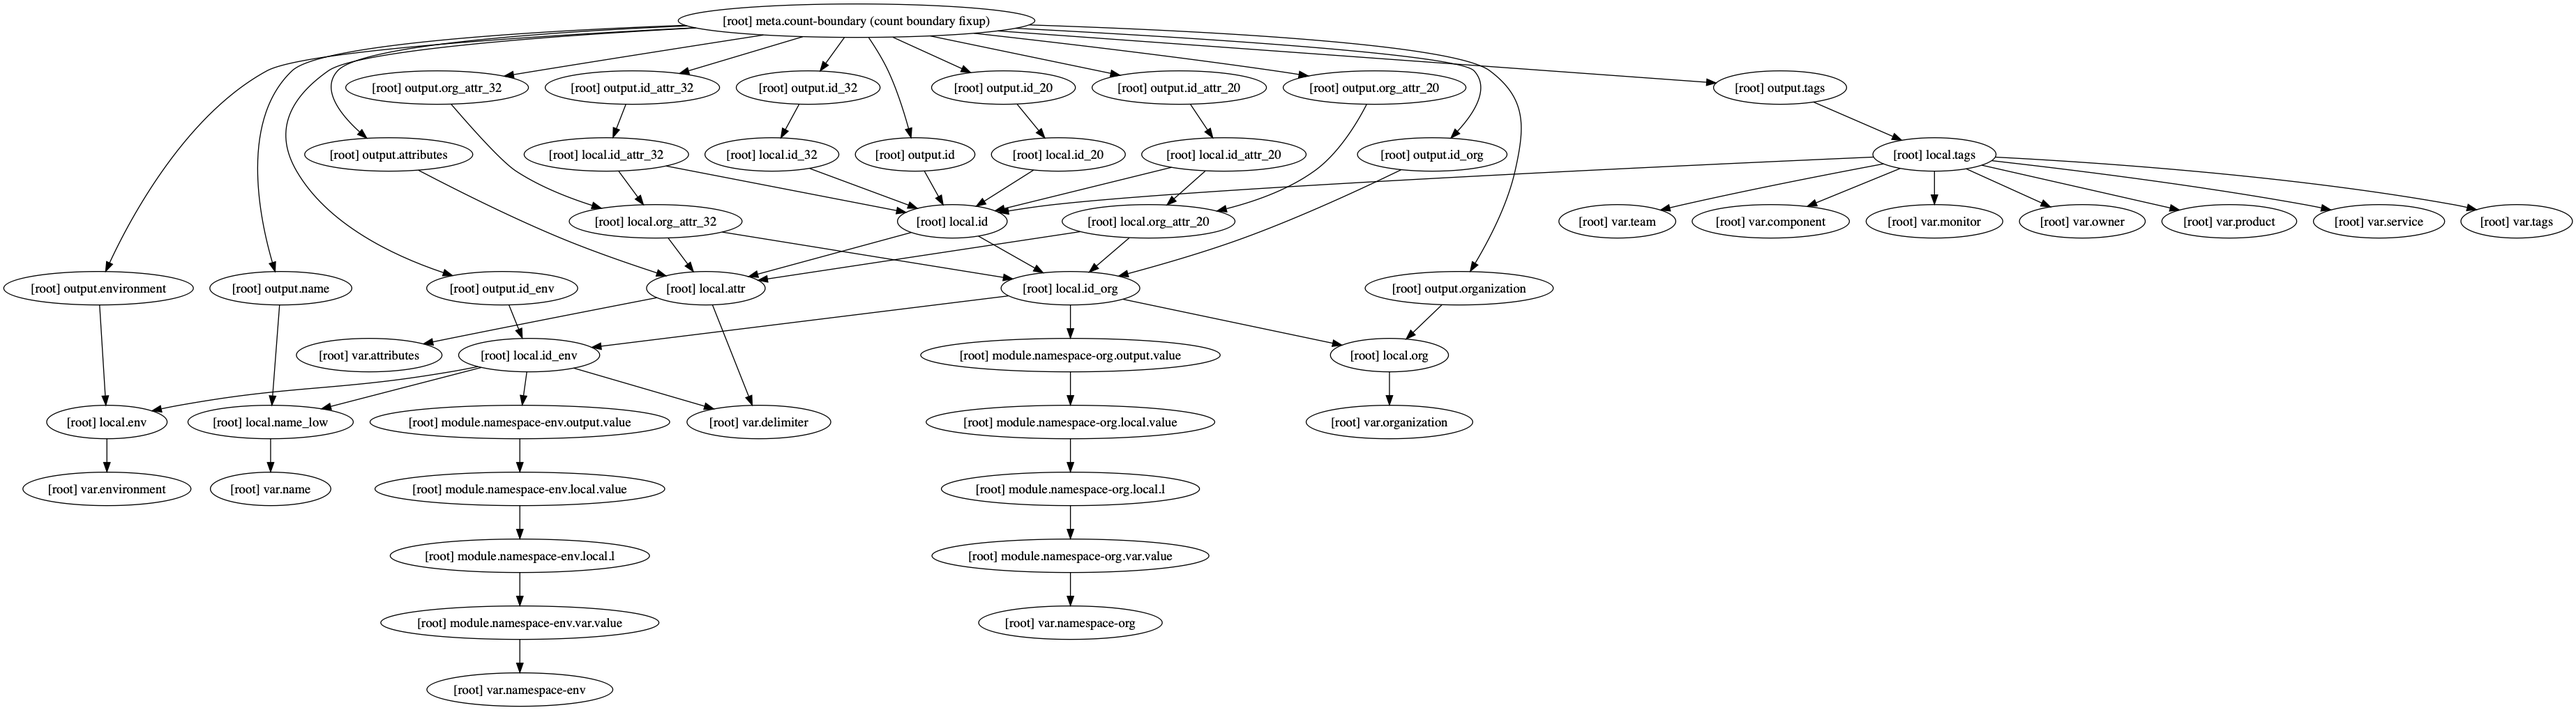
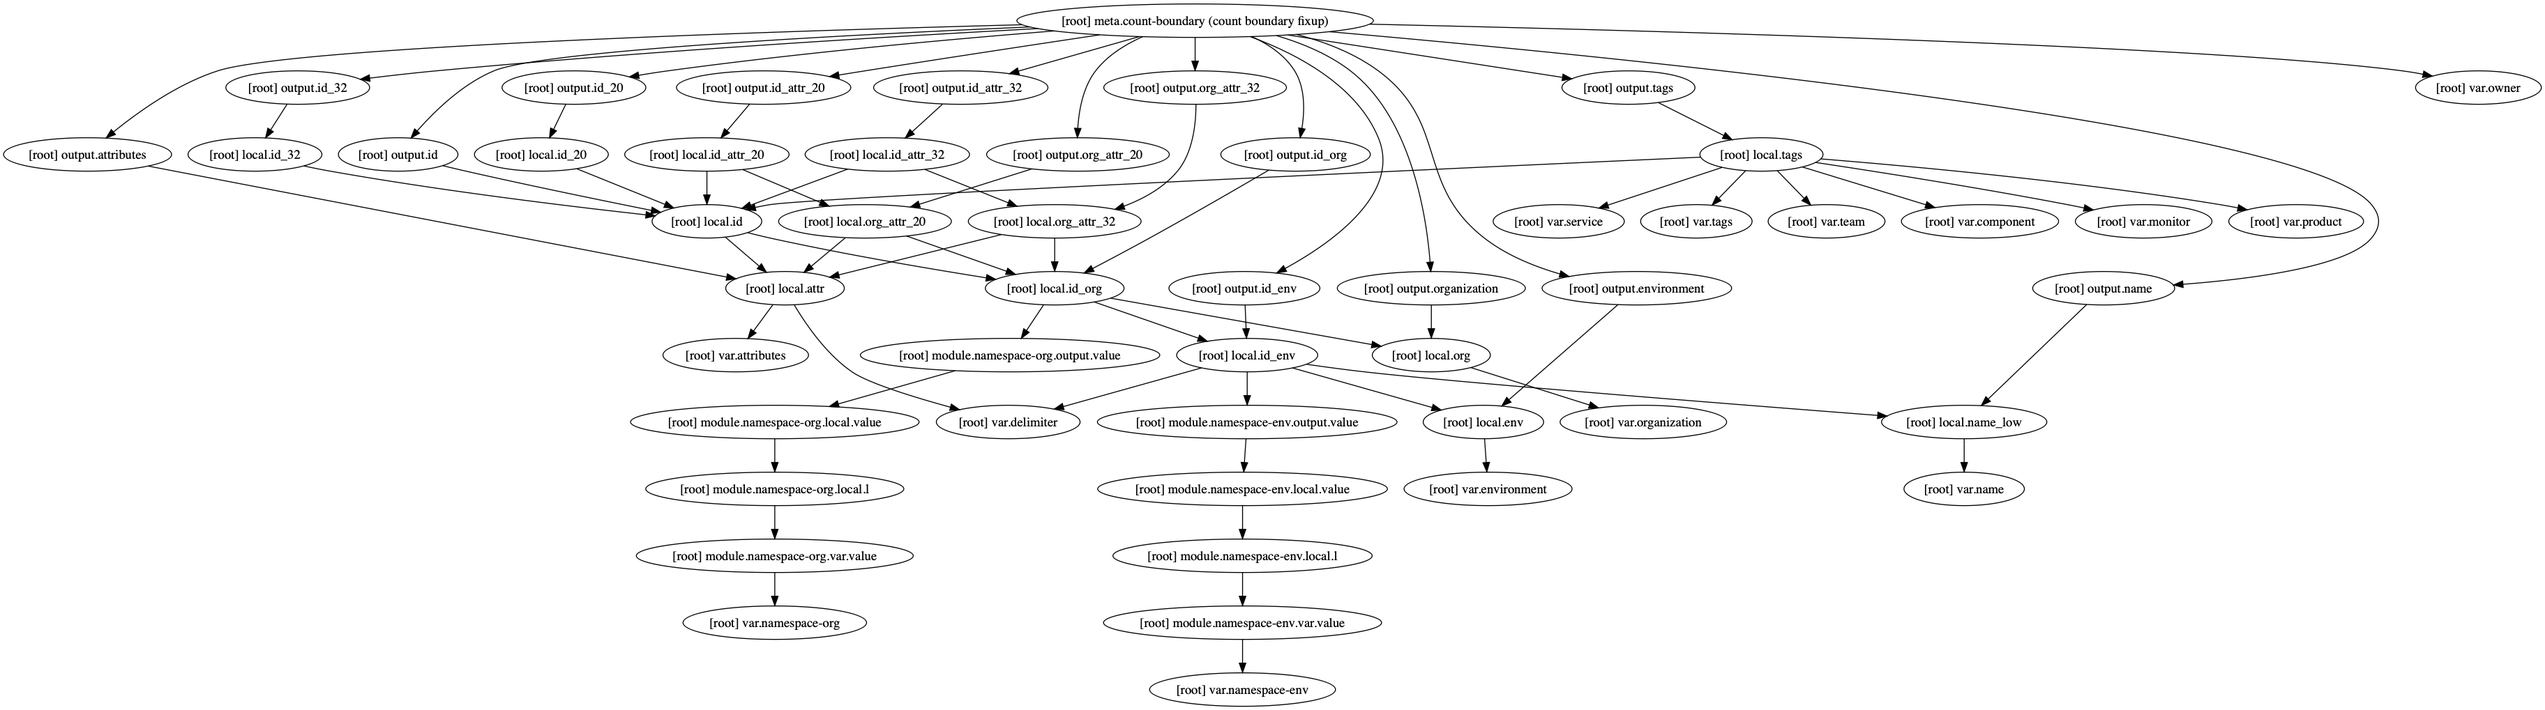
Remove owner tag

diff --git a/README.md b/README.md
@@ -80,25 +80,24 @@ module "label" {
 ```
 
 <!-- BEGINNING OF PRE-COMMIT-TERRAFORM DOCS HOOK -->
-
 ## Inputs
 
 | Name | Description | Type | Default | Required |
 |------|-------------|:----:|:-----:|:-----:|
 | attributes | Suffix name with additional attributes (policy, role, etc.) | list | `<list>` | no |
-| component | TAG: Underlying, dedicated piece of service (Cache, DB, ...) | string | `UNDEF` | no |
-| delimiter | Delimiter to be used between `name`, `namespaces`, `attributes`, etc. | string | `-` | no |
-| environment | Environment (ex: `dev`, `qa`, `stage`, `prod`). (Second or top level namespace. Depending on namespacing options) | string | - | yes |
-| monitor | TAG: Should resource be monitored | string | `UNDEF` | no |
-| name | Base name for resource | string | - | yes |
-| namespace-env | Prefix name with the environment. If true, format is: `{env}-{name}` | string | `true` | no |
-| namespace-org | Prefix name with the organization. If true, format is: `{org}-{env namespaced name}`. If both env and org namespaces are used, format will be `{org}-{env}-{name}` | string | `false` | no |
-| organization | Organization name (Top level namespace) | string | `` | no |
-| owner | TAG: Owner of the service | string | `UNDEF` | no |
-| product | TAG: Company/business product | string | `UNDEF` | no |
-| service | TAG: Application (microservice) name | string | `UNDEF` | no |
+| component | TAG: Underlying, dedicated piece of service (Cache, DB, ...) | string | `"UNDEF"` | no |
+| delimiter | Delimiter to be used between `name`, `namespaces`, `attributes`, etc. | string | `"-"` | no |
+| environment | Environment (ex: `dev`, `qa`, `stage`, `prod`). (Second or top level namespace. Depending on namespacing options) | string | n/a | yes |
+| monitor | TAG: Should resource be monitored | string | `"UNDEF"` | no |
+| name | Base name for resource | string | n/a | yes |
+| namespace-env | Prefix name with the environment. If true, format is: `{env}-{name}` | string | `"true"` | no |
+| namespace-org | Prefix name with the organization. If true, format is: `{org}-{env namespaced name}`. If both env and org namespaces are used, format will be `{org}-{env}-{name}` | string | `"false"` | no |
+| organization | Organization name (Top level namespace) | string | `""` | no |
+| owner | TAG: Owner of the service | string | `"UNDEF"` | no |
+| product | TAG: Company/business product | string | `"UNDEF"` | no |
+| service | TAG: Application (microservice) name | string | `"UNDEF"` | no |
 | tags | A map of additional tags | map | `<map>` | no |
-| team | TAG: Department/team of people responsible for service | string | `UNDEF` | no |
+| team | TAG: Department/team of people responsible for service | string | `"UNDEF"` | no |
 
 ## Outputs
 
